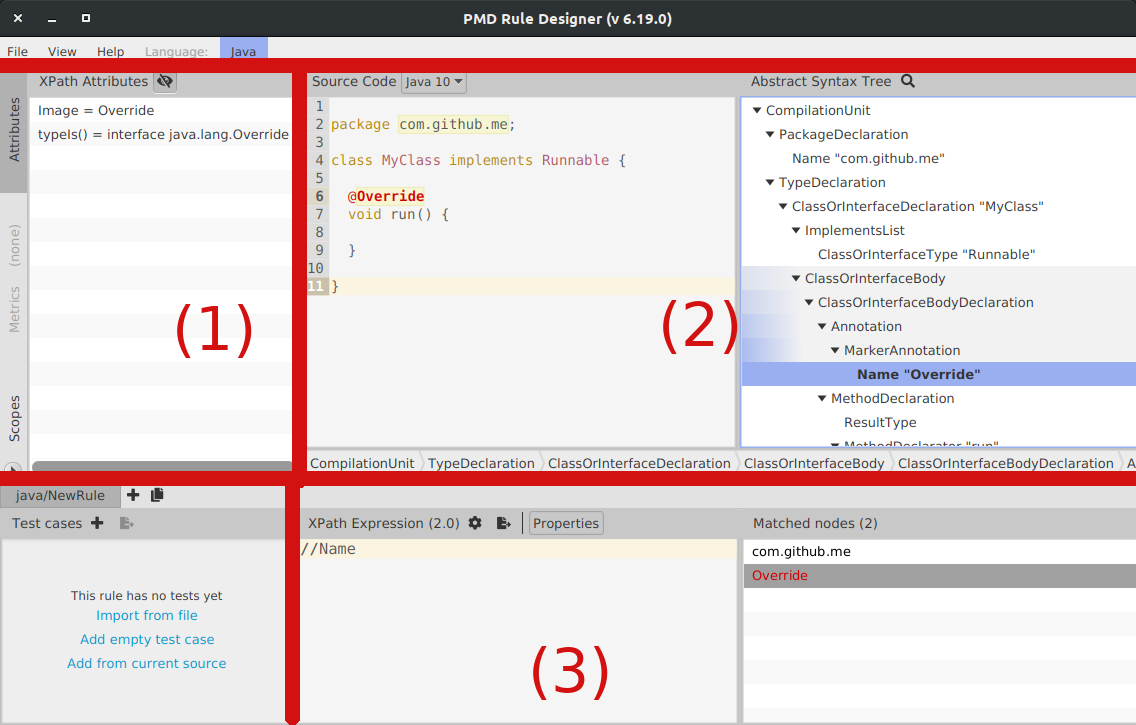
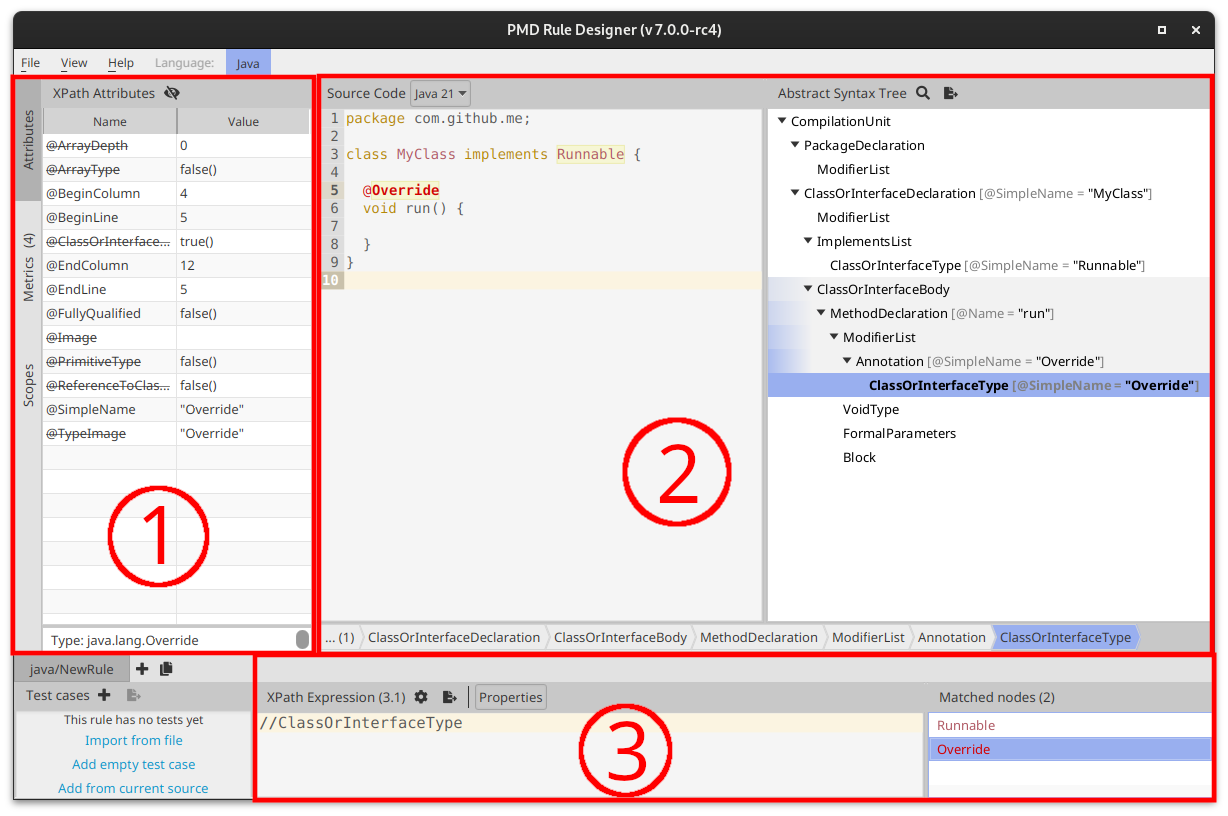
[doc] Update rule writing docs (#2511)

diff --git a/docs/_includes/custom/xpath_fun_doc.html b/docs/_includes/custom/xpath_fun_doc.html
@@ -1,6 +1,6 @@
 {% for lang in site.data.xpath_funs.langs %}
 
-<!-- Generates the documentation of XPath functions. -->
+<!-- Generates the documentation of XPath functions from file docs/_data/xpath_funs.yml -->
 
 ### {{ lang.name }}
 

diff --git a/docs/pages/pmd/userdocs/extending/your_first_rule.md b/docs/pages/pmd/userdocs/extending/your_first_rule.md
@@ -1,8 +1,8 @@
 ---
-title:  Your first rule XPath
+title:  Your first rule
 tags: [extending, userdocs]
-summary: "Introduction to rule writing through an example."
-last_updated: February 2020 (6.22.0)
+summary: "Introduction to rule writing through an example for a XPath rule."
+last_updated: December 2023 (7.0.0)
 permalink: pmd_userdocs_extending_your_first_rule.html
 author: Miguel Griffa <mikkey@users.sourceforge.net>, Clément Fournier <clement.fournier76@gmail.com>
 ---
@@ -11,7 +11,7 @@ This page is a gentle introduction to rule writing, and the Rule Designer.
 
 Using the designer is useful both to write Java
 rules and XPath rules, but it's more specifically geared towards XPath rules.
-This page uses a simple XPath rule to illustrate the common workflow. We assume
+This page uses a **simple XPath rule** to illustrate the common workflow. We assume
 here that you already know what XPath is and how to read basic XPath queries. W3C
 has a good tutorial [here](https://www.w3schools.com/xml/xpath_syntax.asp) if
 you don't (in the context of XML only), and [the Saxon documentation](https://www.saxonica.com/documentation/index.html#!expressions)
@@ -35,11 +35,11 @@ The interface looks like the following:
 {% include image.html file="userdocs/designer-overview-with-nums.png" alt="Designer overview" %}
 
 The zone (2) is the **main editor**. When you write a code snippet in the
- code area to the left, you'll see that the tree to the right will be updated
- automatically: it's the AST of the code.
- Note that the code snippet must be a syntactically valid compilation unit for the
- language you've chosen, e.g. for Java, a compilation unit necessarily has a top-level
- type declaration.
+code area to the left, you'll see that the tree to the right will be updated
+automatically: it's the AST of the code.
+Note that the code snippet must be a syntactically valid compilation unit for the
+language you've chosen, e.g. for Java, a compilation unit necessarily has a top-level
+type declaration.
 
 If you select a node in the AST, its specific properties will also be displayed
 in the panel (1): they're the XPath attributes of the node. More on that later.
@@ -57,7 +57,7 @@ The basic development process is straightforward:
 2.  Examine the AST and determine what node the violation should be reported on
 3.  Write an XPath expression matching that node in the XPath editor
 4.  Refine the XPath expression iteratively using different code snippets, so that
-    it matches violation cases, but no other node
+    it matches violation cases, but no other nodes
 5.  Export your XPath expression to an XML rule element, and place it in your ruleset
 
 Each time you test your rule against a different snippet, it's a good idea to
@@ -84,10 +84,10 @@ public class KeepingItSerious {
 ```
 
 Examining the AST, you find out that the LocalVariableDeclaration has a VariableDeclaratorId
-descendant, whose `Image` XPath attribute is exactly `bill`. You thus write your first attempt
+descendant, whose `Name` XPath attribute is exactly `bill`. You thus write your first attempt
 in the XPath editor:
 ```xpath
-//VariableDeclaratorId[@Image = "bill"]
+//VariableDeclaratorId[@Name = "bill"]
 ```
 
 You can see the XPath result list is updated with the variable declarator.
@@ -112,13 +112,14 @@ based on your examination of the Type node of the field and local variable
 declaration nodes.
 
 ```xpath
-//VariableDeclaratorId[@Image = "bill" and ../../Type[@TypeImage = "short"]]
+//VariableDeclaratorId[@Image = "bill"][../../PrimitiveType[@Kind = "short"]]
 ```
 
 ### Exporting to XML
 
 You estimate that your rule is now production ready, and you'd like to use it in your ruleset.
-The `File > Export XPath to rule...` allows you to do that in a few clicks: just enter some
+The second button in the toolbar above the XPath editor (Tooltip: `Export XPath to rule...`)
+allows you to do that in a few clicks: just enter some
 additional metadata for your rule, and the popup will generate an XML element that you can
 copy-paste into your ruleset XML. The resulting element looks like so:
 
@@ -126,16 +127,16 @@ copy-paste into your ruleset XML. The resulting element looks like so:
 <rule name="DontCallBossShort"
       language="java"
       message="Boss wants to talk to you."
-      class="net.sourceforge.pmd.lang.rule.XPathRule" >
+      class="net.sourceforge.pmd.lang.rule.XPathRule">
     <description>
-TODO
+        TODO
     </description>
     <priority>3</priority>
     <properties>
         <property name="xpath">
             <value>
-<![CDATA[
-//VariableDeclaratorId[../../Type[@TypeImage="short"] and @Image = "bill"]
+                <![CDATA[
+//VariableDeclaratorId[@Image = "bill"][../../PrimitiveType[@Kind = "short"]]
 ]]>
             </value>
         </property>

diff --git a/docs/pages/pmd/userdocs/extending/writing_rules_intro.md b/docs/pages/pmd/userdocs/extending/writing_rules_intro.md
@@ -2,7 +2,7 @@
 title: Introduction to writing PMD rules
 tags: [extending, userdocs, getting_started]
 summary: "Writing your own PMD rules"
-last_updated: February 2020 (6.22.0)
+last_updated: December 2023 (7.0.0)
 permalink: pmd_userdocs_extending_writing_rules_intro.html
 author: Clément Fournier <clement.fournier76@gmail.com>
 ---
@@ -14,19 +14,16 @@ team.
 ## How rules work: the AST
 
 Before running rules, PMD parses the source file into a data structure called an
-**abstract syntax tree (AST)**. This tree represents the syntactic structure of the
+**[abstract syntax tree (AST)](https://en.wikipedia.org/wiki/Abstract_syntax_tree)**.
+This tree represents the syntactic structure of the
 code, and encodes syntactic relations between source code elements. For instance,
 in Java, method declarations belong to a class: in the AST, the nodes representing
 method declarations will be descendants of a node representing the declaration of
 their enclosing class. This representation is thus much richer than the original
 source code (which, for a program, is just a chain of characters), or the token
-chain produced by a lexer (which is e.g. what Checkstyle works on). For example:
+chain produced by a lexer. For example:
 
 <table>
-<colgroup>
-<col width="40%" />
-<col width="70%" />
-</colgroup>
 <thead>
 <tr class="header">
 <th>Sample code (Java)</th>
@@ -48,11 +45,11 @@ class Foo extends Object {
 
 ```java
 └─ CompilationUnit
-   └─ TypeDeclaration
-      └─ ClassOrInterfaceDeclaration "Foo"
-         ├─ ExtendsList
-         │  └─ ClassOrInterfaceType "Object"
-         └─ ClassOrInterfaceBody
+        └─ ClassOrInterfaceDeclaration "Foo"
+        ├─ ModifierList
+        ├─ ExtendsList
+        │  └─ ClassOrInterfaceType "Object"
+        └─ ClassOrInterfaceBody
 ```
 
 </td>
@@ -95,6 +92,8 @@ complicated processing, to which an XPath rule couldn't scale.
 In the end, choosing one strategy or the other depends on the difficulty of what
 your rule does. I'd advise to keep to XPath unless you have no other choice.
 
+Note: Despite that fact, the Java rules are written in Java, any language that PMD supports
+can be analyzed. E.g. you can write a Java rule to analyze Apex source code.
 
 ## XML rule definition
 
@@ -103,16 +102,18 @@ case for both XPath and Java rules. To do this, the `rule` element is used, but
 instead of mentioning the `ref` attribute, it mentions the `class` attribute,
 with the implementation class of your rule.
 
-* **For Java rules:** this is the class extending AbstractRule (transitively)
-* **For XPath rules:** this is `net.sourceforge.pmd.lang.rule.XPathRule`
+* **For Java rules:** this is the concrete class extending AbstractRule (transitively)
+* **For XPath rules:** this is `net.sourceforge.pmd.lang.rule.XPathRule`.
+* **For XPath rules analyzing XML-based languages:** this is `net.sourceforge.pmd.lang.xml.rule.DomXPathRule`.
+  See [XPath rules in XML](pmd_languages_xml.html#xpath-rules-in-xml) for more info.
 
-Example:
+Example for Java rule:
 
 ```xml
 <rule name="MyJavaRule"
       language="java"
       message="Violation!"
-      class="com.me.MyJavaRule" >
+      class="com.me.MyJavaRule">
     <description>
         Description
     </description>
@@ -120,11 +121,31 @@ Example:
 </rule>
 ```
 
-{% include note.html content="In PMD 7, the `language` attribute will be required on all `rule`
-    elements that declare a new rule. Some base rule classes set the language implicitly in their
-    constructor, and so this is not required in all cases for the rule to work. But this
-    behavior will be discontinued in PMD 7, so missing `language` attributes are
-    reported beginning with PMD 6.27.0 as a forward compatibility warning." %}
+Example for XPath rule:
+
+```xml
+<rule name="MyXPathRule"
+      language="java"
+      message="Violation!"
+      class="net.sourceforge.pmd.lang.rule.XPathRule">
+    <description>
+        Description
+    </description>
+    <priority>3</priority>
+    <properties>
+        <property name="xpath">
+            <value><![CDATA[
+//ClassOrInterfaceDeclaration
+]]></value>
+        </property>
+    </properties>
+</rule>
+```
+
+
+{% include note.html content="Since PMD 7, the `language` attribute is required on all `rule`
+    elements that declare a new rule. In PMD 6, this was optional, as the base rule classes sometimes set
+    the language implicitly in their constructor." %}
 
 ## Resource index
 

diff --git a/docs/pages/pmd/userdocs/extending/writing_xpath_rules.md b/docs/pages/pmd/userdocs/extending/writing_xpath_rules.md
@@ -2,7 +2,7 @@
 title:  Writing XPath rules
 tags: [extending, userdocs]
 summary: "This page describes XPath rule support in more details"
-last_updated: February 2020 (6.22.0)
+last_updated: December 2023 (7.0.0)
 permalink: pmd_userdocs_extending_writing_xpath_rules.html
 author: Miguel Griffa <mikkey@users.sourceforge.net>, Clément Fournier <clement.fournier76@gmail.com>
 ---
@@ -15,17 +15,19 @@ author: Miguel Griffa <mikkey@users.sourceforge.net>, Clément Fournier <clement
 
 
 This page describes some points of XPath rule support in more details. See
-also [the tutorial about how to write an XPath rule](pmd_userdocs_extending_your_first_rule.html).
+also [the tutorial about how to write a first (XPath) rule](pmd_userdocs_extending_your_first_rule.html).
 
 <!-- Later we can document the specific subset of XPath features our wrappers support -->
 
 ## XPath version
 
-PMD uses XPath 3.1 for its XPath rules since PMD 7. Before then, the default version was XPath 1.0, with opt-in support for XPath 2.0.
+PMD uses XPath 3.1 for its XPath rules since PMD 7. Before then, the default version was XPath 1.0,
+with opt-in support for XPath 2.0.
 
-See [the Saxonica documentation](https://www.saxonica.com/html/documentation/expressions/xpath31new.html) for an introduction to new features in XPath 3.1.
+See [the Saxonica documentation](https://www.saxonica.com/html/documentation/expressions/xpath31new.html)
+for an introduction to new features in XPath 3.1.
 
-The property `version` of XPathRule is deprecated and will be removed.
+The property `version` of {% jdoc core::lang.rule.XPathRule %} is deprecated and will be removed.
 
 
 ## DOM representation of ASTs
@@ -38,11 +40,13 @@ defined on. Concretely, this means:
 * Some Java getters are exposed as XML attributes on those elements
   * This means, that documentation for attributes can be found in our Javadocs. For
   example, the attribute `@SimpleName` of the Java node `EnumDeclaration` is backed
-  by the Java getter {% jdoc java::lang.java.ast.ASTAnyTypeDeclaration#getSimpleName() %}.
+  by the Java getter {% jdoc java::lang.java.ast.AbstractAnyTypeDeclaration#getSimpleName() %}.
 
 ### Value conversion
 
-To represent attributes, we must map Java values to [XPath Data Model (XDM)](https://www.w3.org/TR/xpath-datamodel/) values. In the following table we refer to the type conversion function as `conv`, a function from Java types to XDM types.
+To represent attributes, we must map Java values to [XPath Data Model (XDM)](https://www.w3.org/TR/xpath-datamodel/)
+values. In the following table we refer to the type conversion function as `conv`, a function from Java types
+to XDM types.
 
 | Java type `T` | XSD type `conv(T)`                    |
 |---------------|---------------------------------------|
@@ -73,14 +77,9 @@ The same `conv` function is used to translate rule property values to XDM values
 PMD provides some language-specific XPath functions to access semantic
 information from the AST.
 
-On XPath 2.0, the namespace of custom PMD function must be explicitly mentioned.
+The namespace of custom PMD functions must be explicitly mentioned.
 
 {% render %}
 {% include custom/xpath_fun_doc.html %}
 {% endrender %}
-
-{% include note.html content='There is also a `typeOf` function which is
-deprecated and whose usages should be replaced with uses of `typeIs` or
-`typeIsExactly`. That one will be removed with PMD 7.0.0.' %}
-
 

diff --git a/docs/pages/pmd/userdocs/migrating_to_pmd7.md b/docs/pages/pmd/userdocs/migrating_to_pmd7.md
@@ -83,6 +83,10 @@ Once you have reviewed your ruleset(s), you can switch to PMD 7.
 Ideally, you have written good tests already for your custom rules - see [Testing your rules](pmd_userdocs_extending_testing.html).
 This helps to identify problems early on.
 
+#### Ruleset XML
+The `<rule>` tag, that defines your custom rule, is required to have a `language` attribute now. This was always the
+case for XPath rules, but is now a requirement for Java rules.
+
 #### XPath rules
 If you have **XPath based** rules, the first step will be to migrate to XPath 2.0 and then to XPath 3.1.
 XPath 2.0 is available in PMD 6 already and can be used right away. PMD 7 will use by default XPath 3.1 and
@@ -92,6 +96,12 @@ can be expected to work in PMD 7 without any further changes. So the migration p
 After you have migrated your XPath rules to XPath 2.0, remove the "version" property, since that will be removed
 with PMD 7. PMD 7 by default uses XPath 3.1.
 See below [XPath](#xpath-migrating-from-10-to-20) for details.
+
+Additional infos:
+* The custom XPath function `typeOf` has been removed (deprecated since 6.4.0).
+  Use the function `pmd-java:typeIs` or `pmd-java:typeIsExactly` instead.
+  See [PMD extension functions](pmd_userdocs_extending_writing_xpath_rules.html#pmd-extension-functions) for available
+  functions.
 
 #### Java rules
 If you have **Java based rules**, and you are using rulechain, this works a bit different now. The RuleChain API
